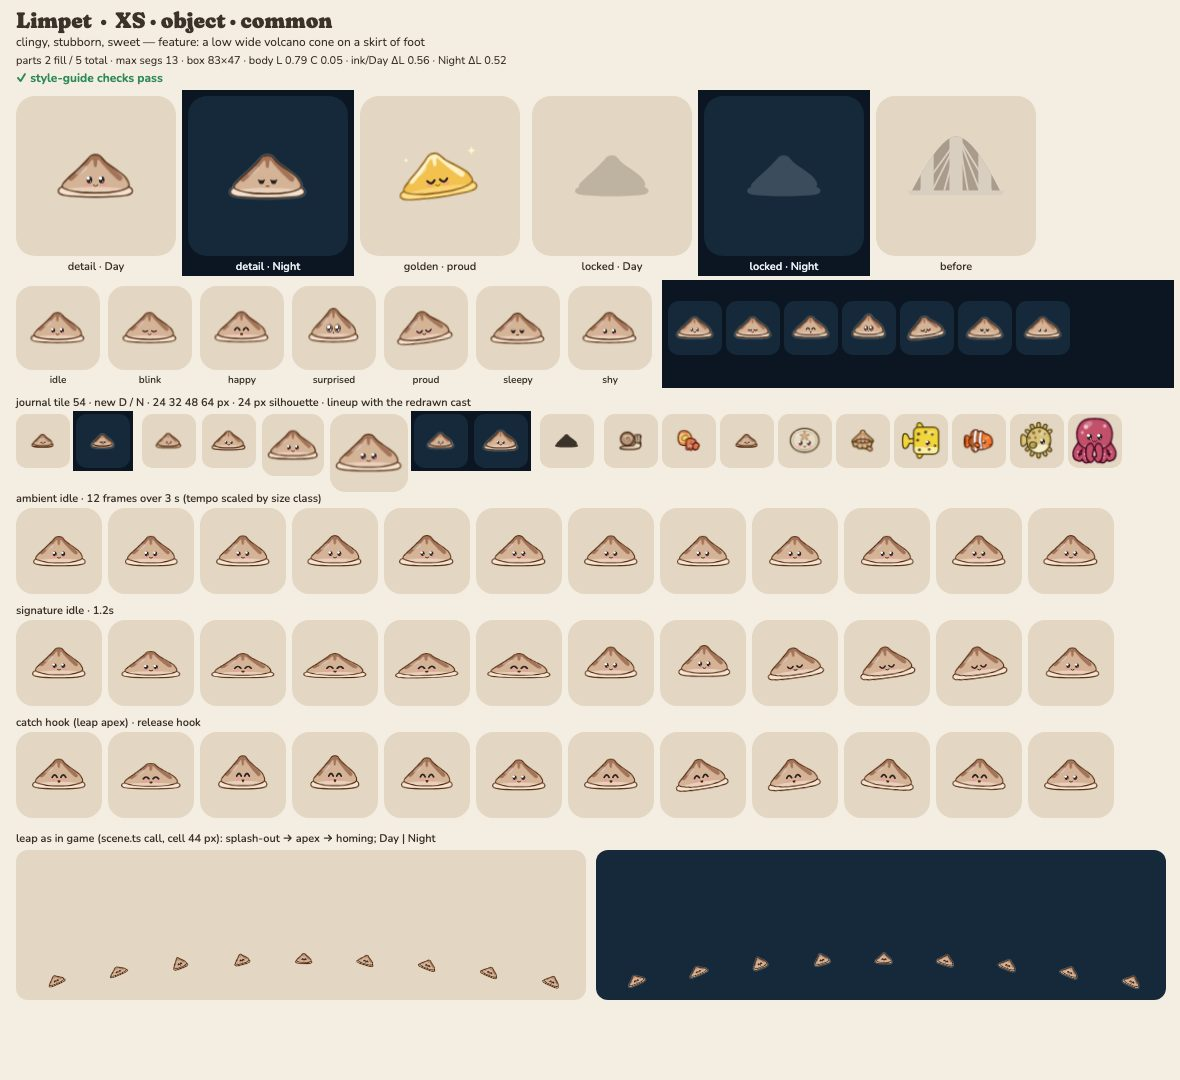
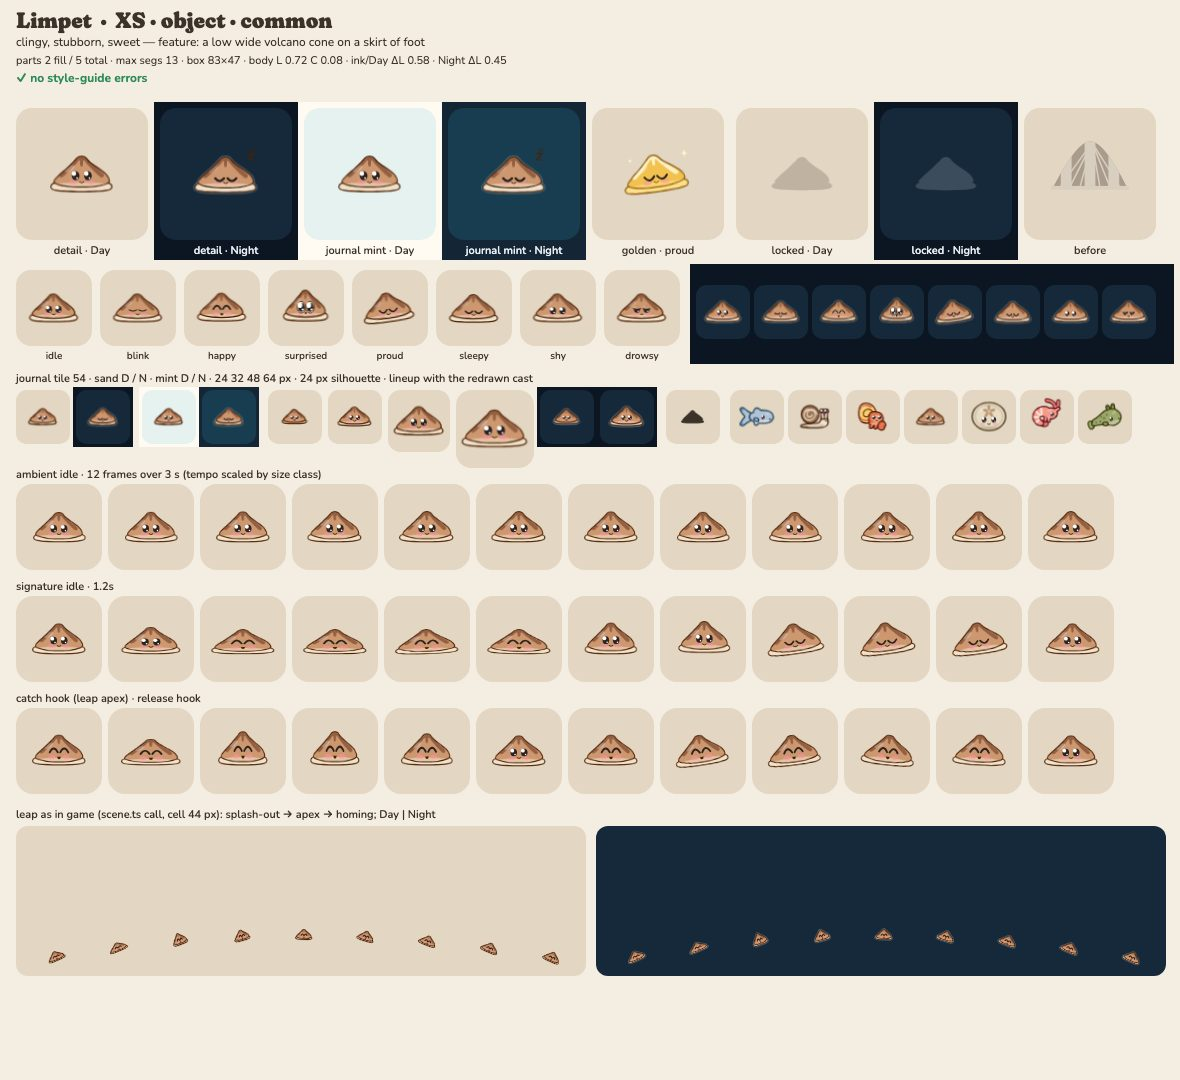
art: limpet redo, big face on the cone flank, warmer shell (ADR 0011)

diff --git a/src/render/art/species/limpet.ts b/src/render/art/species/limpet.ts
@@ -59,7 +59,7 @@ export default defineArt({
   size: 'XS',
   feature: 'a low wide volcano cone on a skirt of foot',
   personality: ['clingy', 'stubborn', 'sweet'],
-  palette: { body: '#D5B397', accent: '#A3745A', belly: '#F6E3D2' },
+  palette: { body: '#CD976F', accent: '#946043', belly: '#F1E2CC' },
   groups: [
     { id: 'skirt', parts: [{ d: skirt, role: 'belly' }] },
     {
@@ -76,12 +76,12 @@ export default defineArt({
   ground: true,
   face: {
     eyes: [
-      [-7, 7],
-      [7, 7],
+      [-8.5, 5],
+      [8.5, 5],
     ],
-    eye: 7.6,
-    zone: [-34, -11, 68, 32],
-    mouth: { at: [0, 13], w: 5, shape: 'smile' },
+    eye: 12.4,
+    zone: [-34, -20, 68, 41],
+    mouth: { at: [0, 13.5], w: 6, shape: 'smile' },
     front: true,
     sweet: true,
   },

diff --git a/docs/art/notes/fleet-2.md b/docs/art/notes/fleet-2.md
@@ -248,3 +248,10 @@ Worst same-class pair overall among mine: clownfish/sunfish 0.684 and limpet/nau
 - Mantle spots all ≥ 6.2 units (R18W); the tiny pearl highlight dot is gone (the white pearl reads alone).
 - Eyes 9.6 (24 % of a slightly taller face zone) so the face holds at 54 px. Lint clean.
 - IoU: octopus 0.70, kraken 0.69 (cross-class, limit 0.80); sand dollar 0.64 (same class). Self-grade A-.
+
+## limpet (graded B → redo)
+- Face moved up onto the cone flank at 60 % of its height, eyes 12.4 units (the XS floor; 30 % of the
+  zone, allowed by the floor rule) 17 apart, mouth 0.7 eye-heights below.
+- Body `#CD976F` (chroma 0.08; `#C49A78` from the critique measures 0.069, under the new floor),
+  ridges `#946043`, cream skirt `#F1E2CC`. Lint clean.
+- IoU: flounder 0.72, cuttle 0.70 (cross-class), nautilus/cockle checked below. Self-grade A-.
